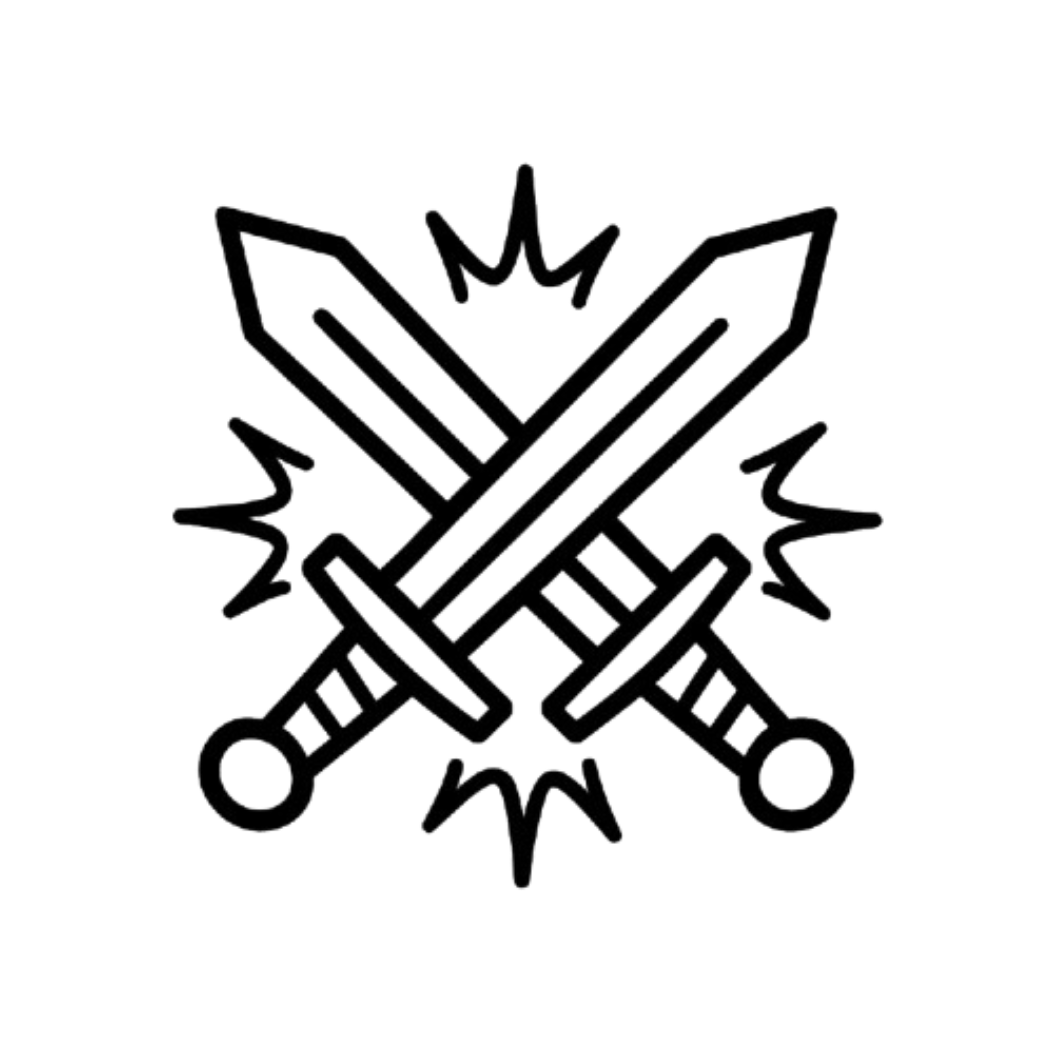
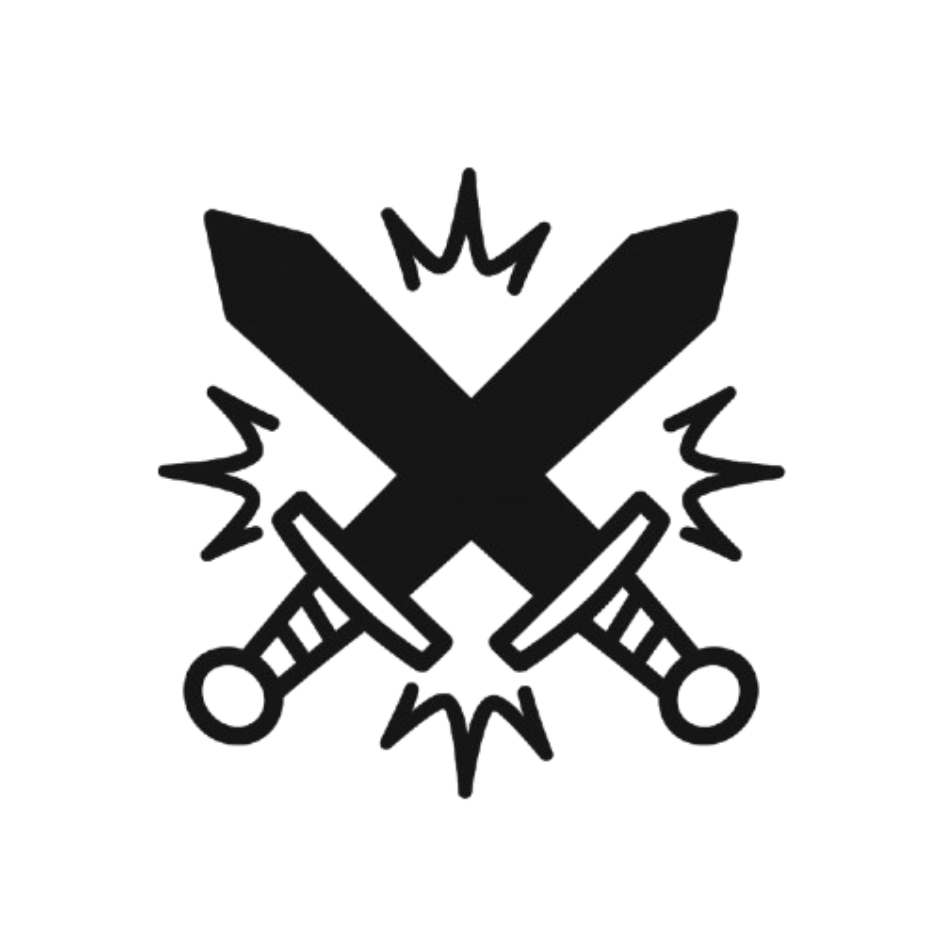
change dodge and attack-bonus animation image and make dodge, attack-bonus emit MoveSuccess

Changed region(s): [[0.1539, 0.1539, 0.8312, 0.8312], [0.4926, 0.8312, 0.5234, 0.862]]

diff --git a/code/bbs/src/index.css b/code/bbs/src/index.css
@@ -1844,8 +1844,8 @@ input[type="range"] {
   position: absolute;
   top: 50%;
   left: 50%;
-  width: 100%;
-  height: 100%;
+  width: 150%;
+  height: 150%;
   transform: translate(-50%, -50%) scale(0.9);
   opacity: 0;
   object-fit: contain;
@@ -1886,8 +1886,8 @@ input[type="range"] {
   position: absolute;
   top: 50%;
   left: 50%;
-  width: 120%;
-  height: 120%;
+  width: 150%;
+  height: 150%;
   transform: translate(-50%, -50%) scale(0.8) rotate(0deg);
   opacity: 0;
   object-fit: contain;
@@ -1950,8 +1950,8 @@ input[type="range"] {
   position: absolute;
   top: 50%;
   left: 50%;
-  width: 100%;
-  height: 100%;
+  width: 150%;
+  height: 150%;
   transform: translate(-50%, -50%) scale(1.5);
   opacity: 0;
   object-fit: contain;
@@ -1994,8 +1994,8 @@ input[type="range"] {
   position: absolute;
   top: 50%;
   left: 50%;
-  width: 100%;
-  height: 100%;
+  width: 150%;
+  height: 150%;
   transform: translate(-50%, -50%) scale(0.8);
   opacity: 0;
   object-fit: contain;

diff --git a/code/simulator/data/common/common_move_pool.ts b/code/simulator/data/common/common_move_pool.ts
@@ -138,6 +138,9 @@ export const COMMON_MOVE_POOL: MovePool<COMMON_MOVE_NAMES> = {
       } else {
         dodgeComponent.remainingDuration++;
       }
+
+      postMoveSuccessEvent(battle, source, source, this);
+
     },
 
     onFail: function (battle: Battle, source: SideId): Promise<void> {
@@ -256,6 +259,8 @@ export const COMMON_MOVE_POOL: MovePool<COMMON_MOVE_NAMES> = {
       --abilityChargeComponent.charges;
       // Add the bonus component
       sourceMonster.components.push(new NextAttacksBonusComponent(3, 3));
+
+      postMoveSuccessEvent(battle, source, source, this);
     },
 
     onFail: async function (battle: Battle, source: SideId): Promise<void> {

diff --git a/code/bbs/src/components/BattleScreen/Components/Animations/DodgeAnimation.tsx b/code/bbs/src/components/BattleScreen/Components/Animations/DodgeAnimation.tsx
@@ -15,7 +15,7 @@ const DodgeAnimationProps: React.FC<DodgeAnimationProps> = ({
       onAnimationEnd={onComplete}
     >
       <img
-        src="/battle-icons/dodge_animation.png"
+        src="/assets/battle-icons/dodge_image.png"
         alt="ability"
         className="dodge-image"
       />
